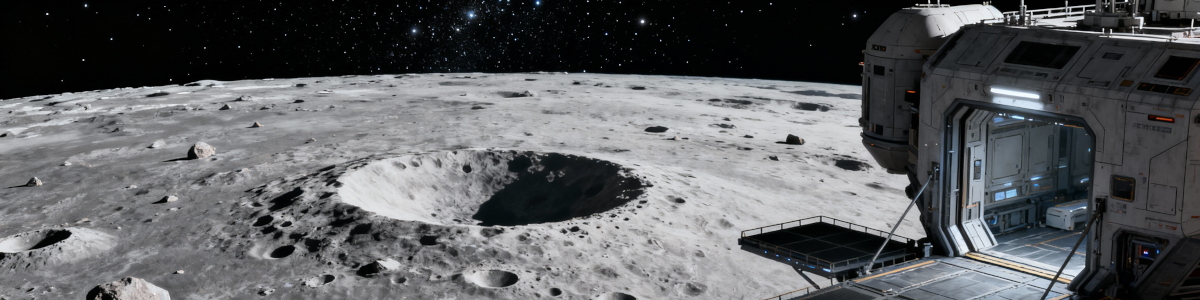
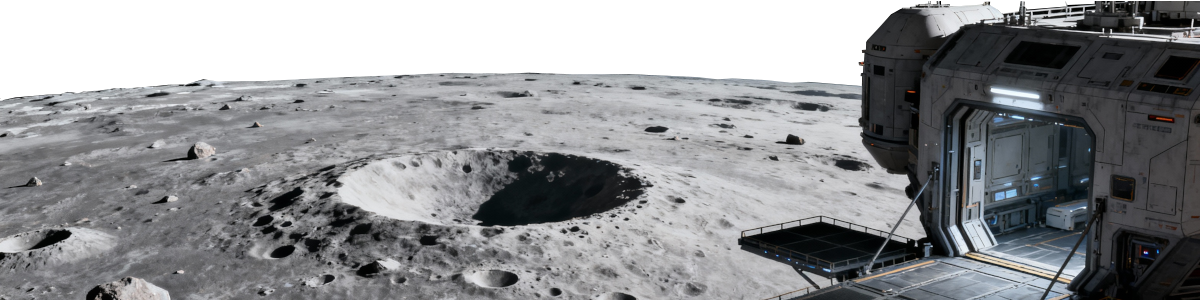
добавил fav

Changed region(s): [[0.0, 0.0, 1.0, 0.33]]

diff --git a/index.html b/index.html
@@ -3,7 +3,9 @@
   <head>
     <meta charset="utf-8" />
     <meta name="viewport" content="width=device-width,initial-scale=1.0" />
-    <title>Moon Landing</title>
+    <link rel="icon" type="image/png" sizes="32x32" href="/favicon-32x32.png">
+    <link rel="icon" type="image/x-icon" href="/favicon.ico">
+    <title>Лунная посадка</title>
   </head>
   <body>
     <div id="app"></div>

diff --git a/src/components/Renderer.vue b/src/components/Renderer.vue
@@ -251,7 +251,7 @@ height: 100%;
 .surface-img {
     position: absolute;
     left: 0;
-    width: auto;
+    width: 100%;
     height: 100%;
     /* Сохраняем пропорции */
     min-height: 100%;
